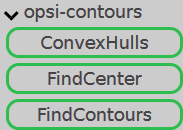
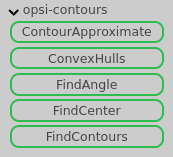
Deploy opensight-cv/opensight-cv.github.io to github.com/opensight-cv/opensight-cv.github.io.git:master

diff --git a/modules/contours/index.html b/modules/contours/index.html
@@ -364,8 +364,22 @@
 </li>
       
         <li class="md-nav__item">
+  <a href="#contourapproximate" class="md-nav__link">
+    ContourApproximate
+  </a>
+  
+</li>
+      
+        <li class="md-nav__item">
   <a href="#findcenter" class="md-nav__link">
     FindCenter
+  </a>
+  
+</li>
+      
+        <li class="md-nav__item">
+  <a href="#findangle" class="md-nav__link">
+    FindAngle
   </a>
   
 </li>
@@ -563,8 +577,22 @@
 </li>
       
         <li class="md-nav__item">
+  <a href="#contourapproximate" class="md-nav__link">
+    ContourApproximate
+  </a>
+  
+</li>
+      
+        <li class="md-nav__item">
   <a href="#findcenter" class="md-nav__link">
     FindCenter
+  </a>
+  
+</li>
+      
+        <li class="md-nav__item">
+  <a href="#findangle" class="md-nav__link">
+    FindAngle
   </a>
   
 </li>
@@ -598,10 +626,16 @@
 <h2 id="convexhulls">ConvexHulls<a class="headerlink" href="#convexhulls" title="Permanent link">&para;</a></h2>
 <p><img alt="ConvexHulls Node Image" src="../../assets/images/modules/contours/node_convex_hulls.png" /></p>
 <p>Finds and outputs the convex hull of each contour in the input <code class="codehilite"><span class="err">contours</span></code>. A convex hull is the convex form of a contour, meaning that the outside angles of each vertex is at least 180 degrees. One way to make this easier to understand is to imagine wrapping a string around the contour. This string would be the convex hull, as all its outside angles would be greater than 180 degrees.</p>
+<h2 id="contourapproximate">ContourApproximate<a class="headerlink" href="#contourapproximate" title="Permanent link">&para;</a></h2>
+<p><img alt="ContourApproximate Node Image" src="../../assets/images/modules/contours/node_contour_approximate.png" /></p>
+<p>This node approximates contours by reducing their number of points. It takes one perameter, <code class="codehilite"><span class="err">epsilon</span></code>, which is the maximum distance between the output contour and the input contour. This node works the same way as the OpenCV function <a href="https://docs.opencv.org/master/d3/dc0/group__imgproc__shape.html#ga0012a5fdaea70b8a9970165d98722b4c">ApproxPolyDP</a>.</p>
 <h2 id="findcenter">FindCenter<a class="headerlink" href="#findcenter" title="Permanent link">&para;</a></h2>
 <p><img alt="FindCenter Node Image" src="../../assets/images/modules/contours/node_find_center.png" /></p>
 <p>Finds and outputs the center of the <code class="codehilite"><span class="err">contours</span></code> supplied. The node starts by finding the center of each individual contour. This is done by finding the bounding box of each contour and finding the center of that bounding box. Next, the overall center is determined by taking the center of each contour and finding the center of those points. The output <code class="codehilite"><span class="err">center</span></code> is this final center that is determined, scaled from -1 to 1 in each axis, where (0,0) is the center of the image. This scaling makes changing cameras or resolution much easier. The output <code class="codehilite"><span class="err">success</span></code> is <code class="codehilite"><span class="err">True</span></code> if at least one contour is present to have its center found, and is otherwise <code class="codehilite"><span class="err">False</span></code>.</p>
 <p>The <code class="codehilite"><span class="err">draw</span></code> setting is whether to draw the contours onto the <code class="codehilite"><span class="err">img</span></code> input before outputting them. If the setting is enabled, the bounding boxes, centers, and connecting lines will be drawn on the image before being output to <code class="codehilite"><span class="err">visual</span></code>. If the setting is disabled, then the output <code class="codehilite"><span class="err">visual</span></code> will simply be the input <code class="codehilite"><span class="err">img</span></code>.</p>
+<h2 id="findangle">FindAngle<a class="headerlink" href="#findangle" title="Permanent link">&para;</a></h2>
+<p><img alt="FindAngle Node Image" src="../../assets/images/modules/contours/node_find_angle.png" /></p>
+<p>This node converts coordinates (Like those found by FindCenter) to radians based on the resolution of the image and the FOV of the camera.</p>
                 
                   
                 
